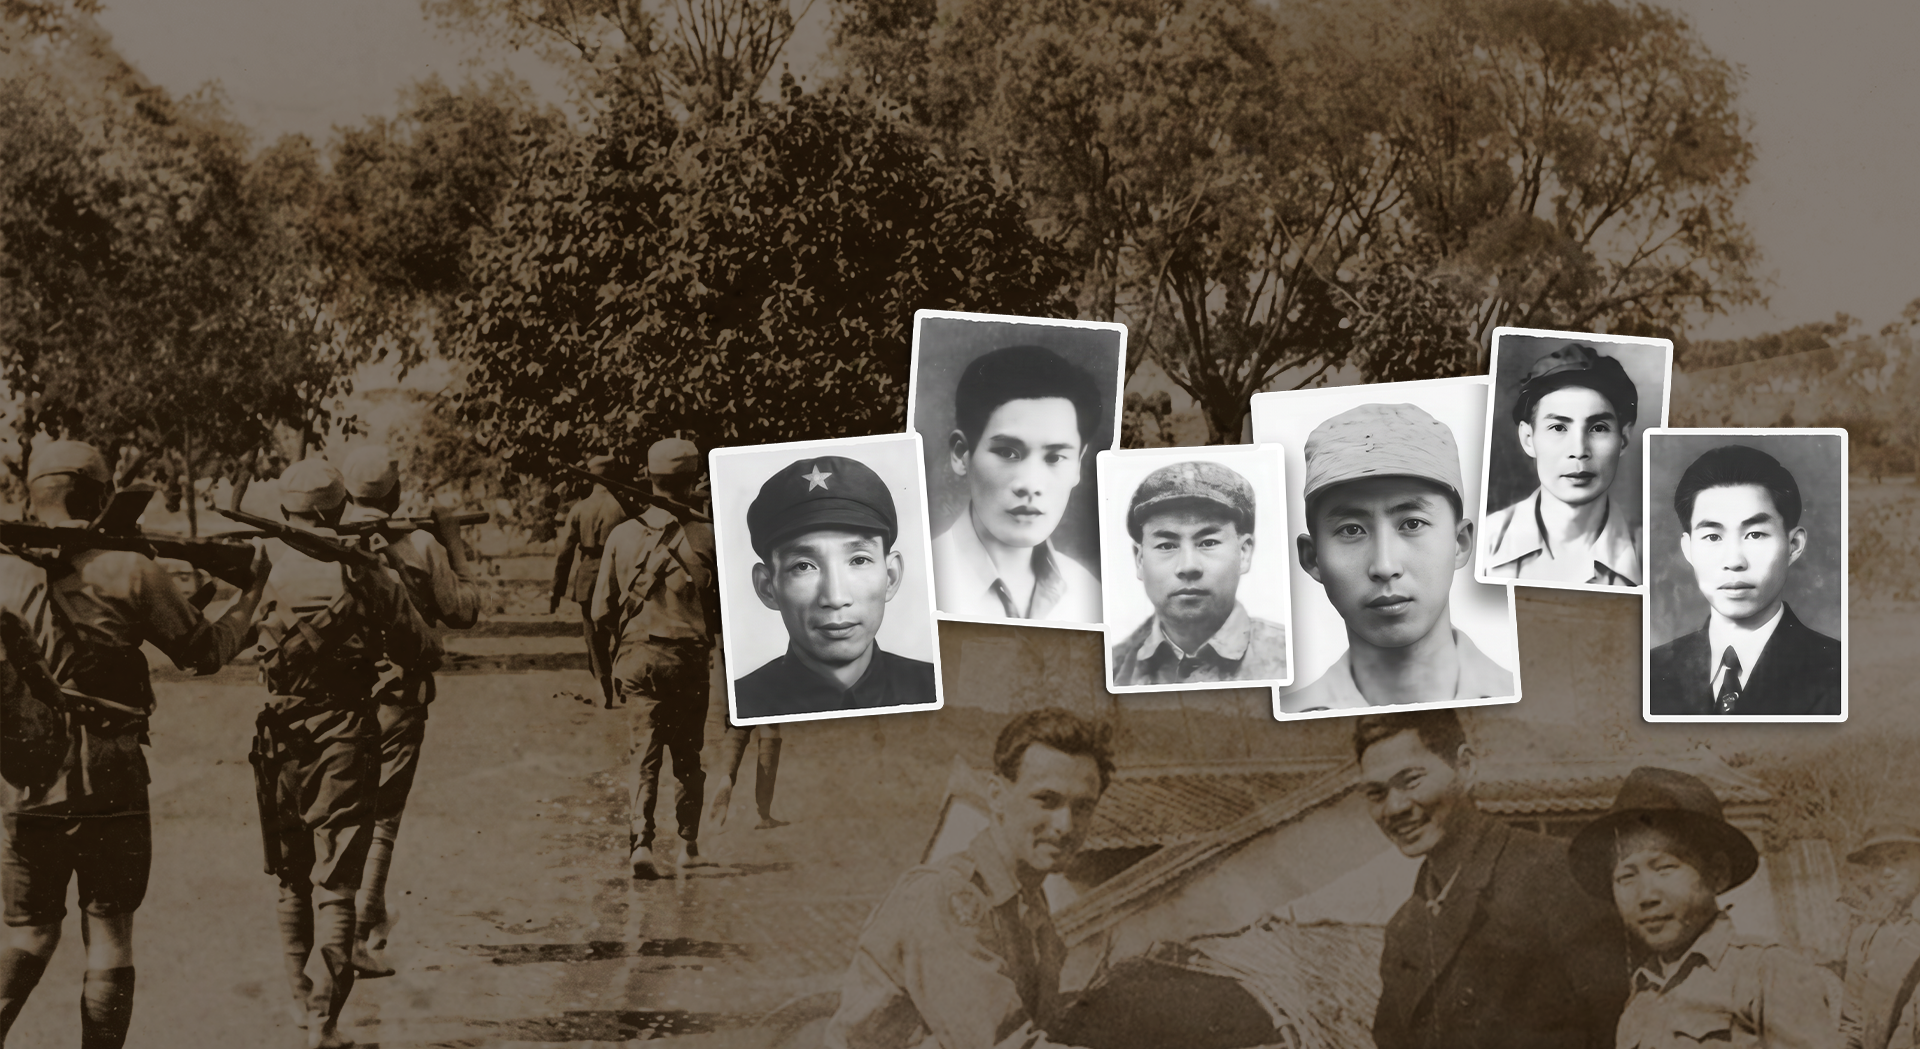
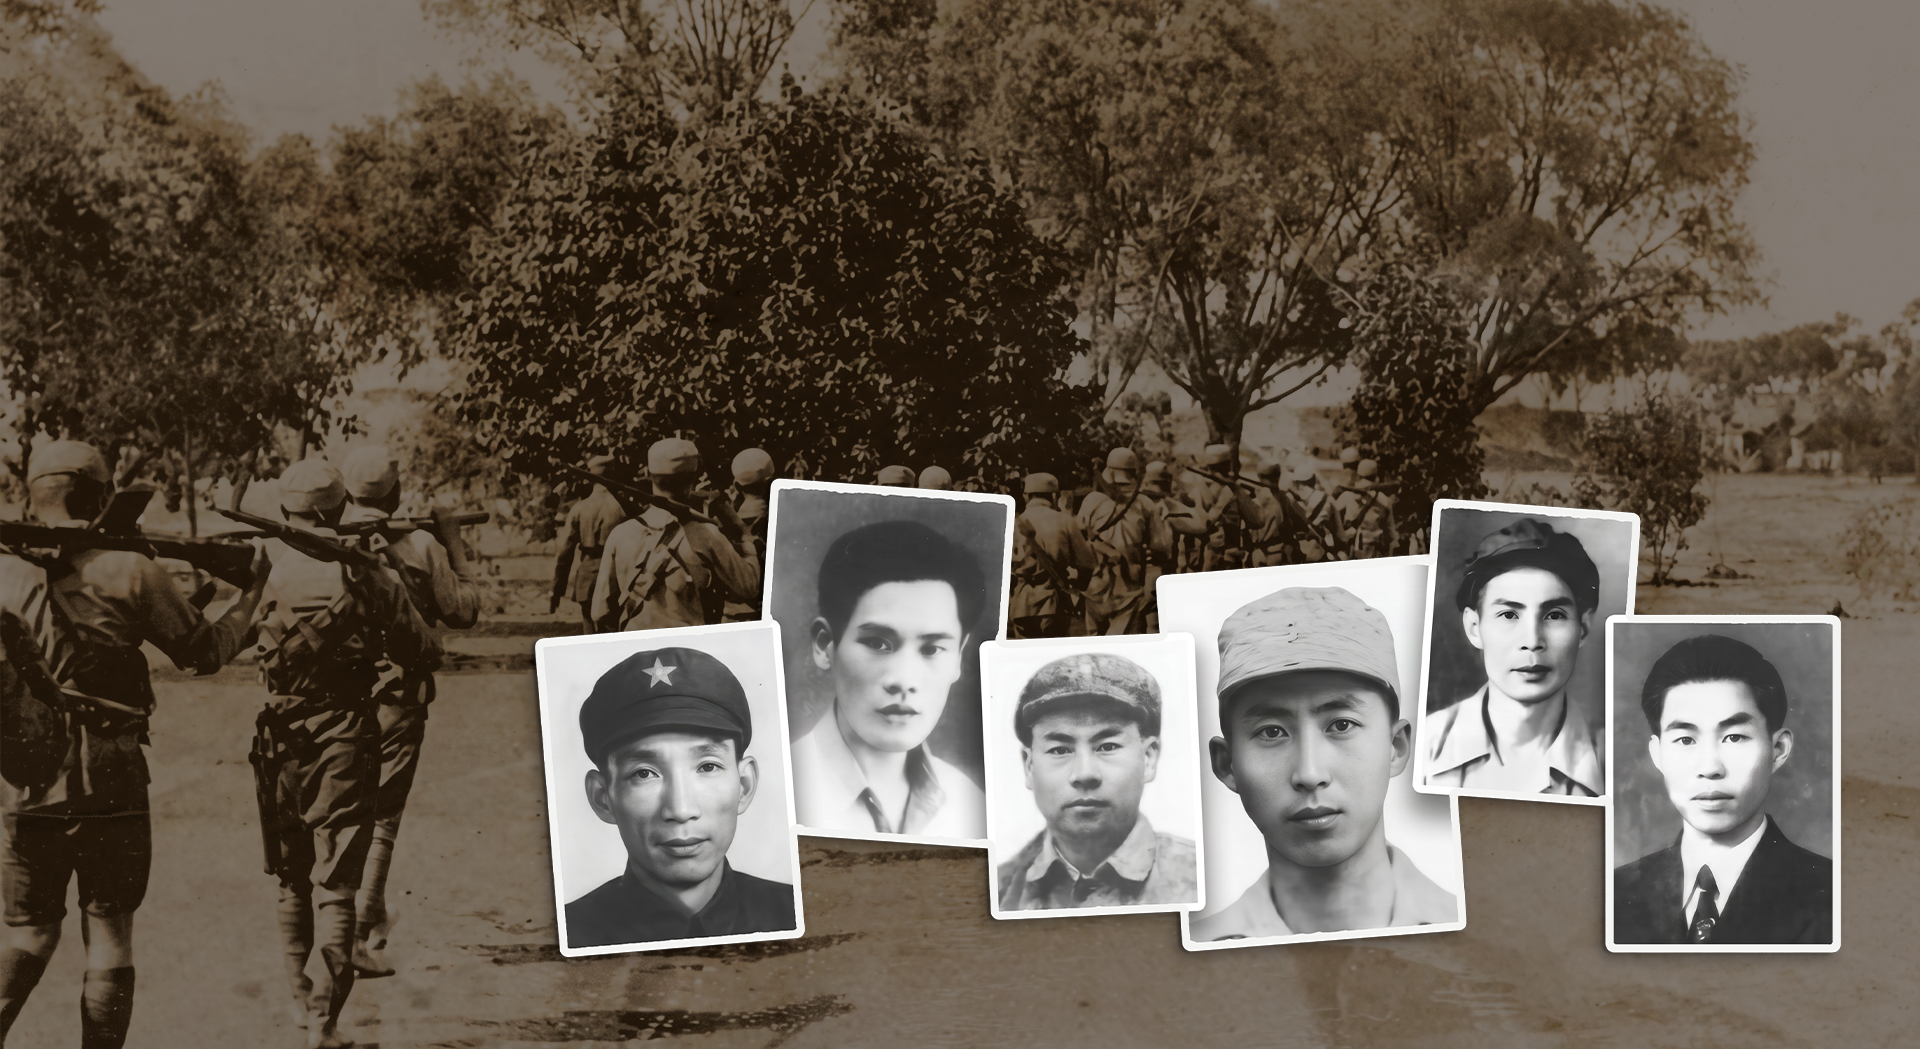
Update guerrilla resistance page's hero section

diff --git a/guerrilla-resistance.php b/guerrilla-resistance.php
@@ -7,7 +7,7 @@ include 'inc/header.php';
 
 <main>
     <section class="hero">
-        <img src="img/guerrilla-resistance/banner.png" alt="游擊與抵抗" class="hero-img" style="object-position: 55% center;">
+        <img src="img/guerrilla-resistance/banner.png" alt="游擊與抵抗" class="hero-img" style="object-position: 60% 90%;">
         <img src="img/home/section_header-游擊與抵抗.svg" alt="游擊與抵抗" class="hero-title battle-of-hong-kong-hero-title">
     </section>
 
